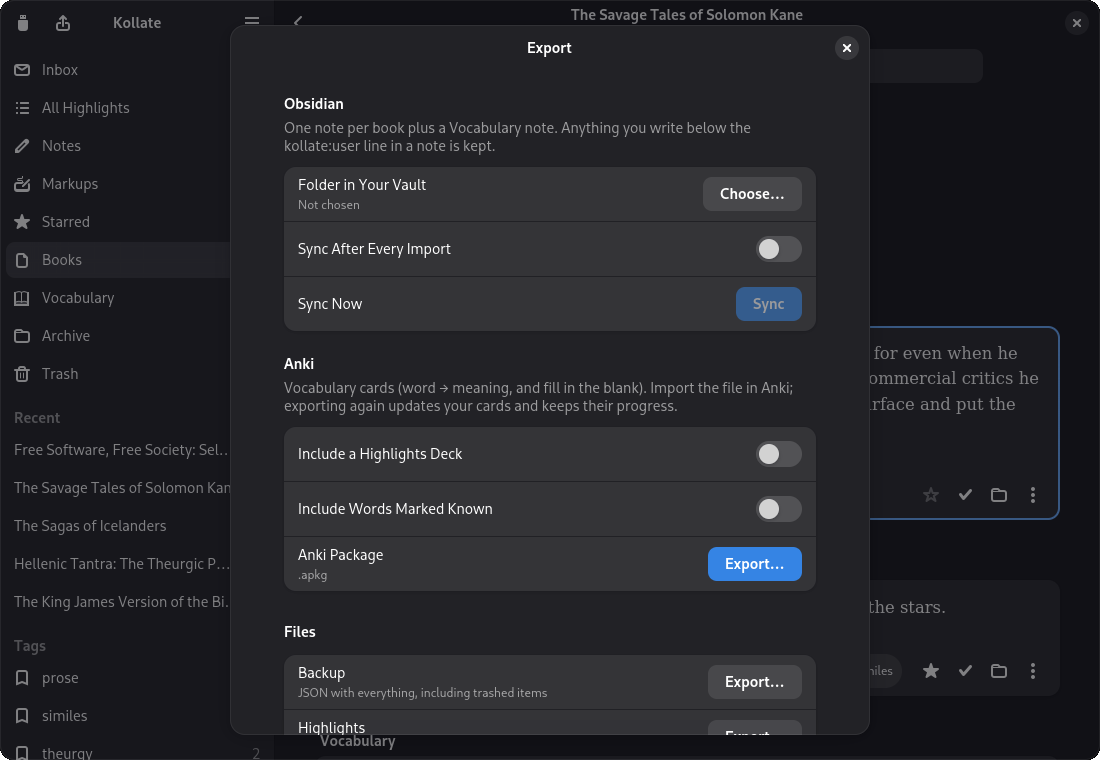
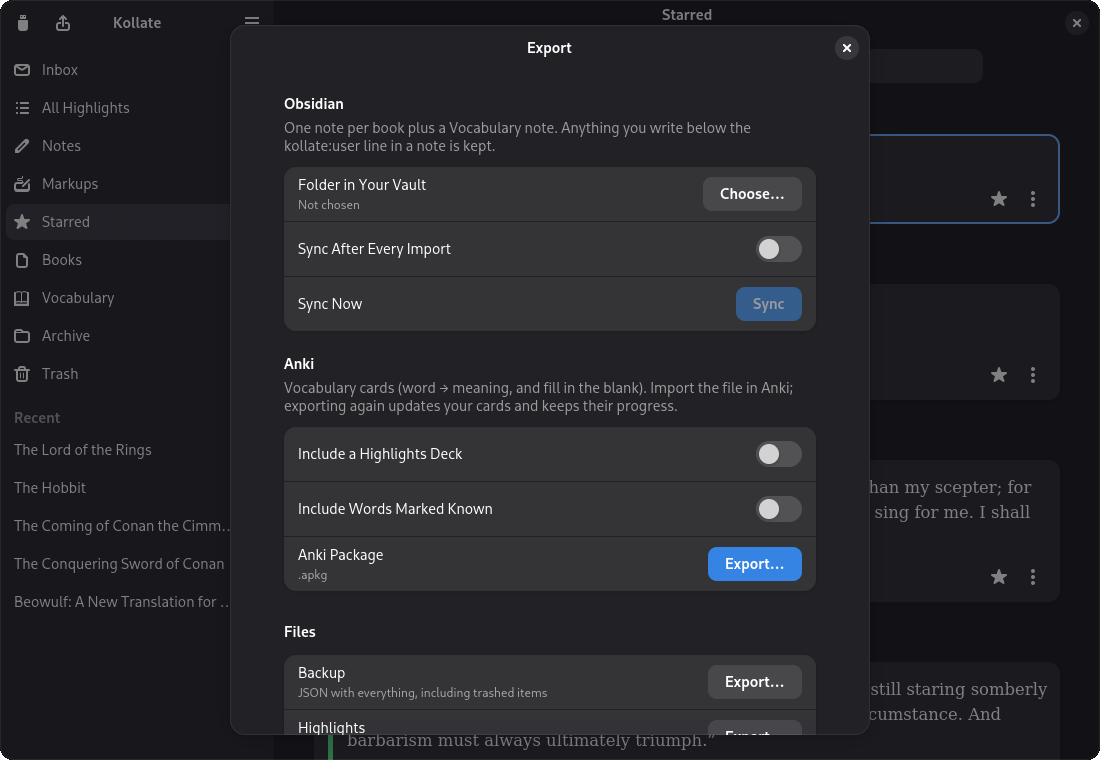
Refresh README screenshots with a curated library

diff --git a/README.md b/README.md
@@ -44,8 +44,8 @@ And export:
 | **Books:** your library by cover, most recent first | **A book:** cover, progress, highlights by chapter |
 | ![Vocabulary words with definitions and the sentence each was found in](docs/screenshots/vocabulary.png) | ![Word dialog for choosing the context sentence and editing the definition](docs/screenshots/word.png) |
 | **Vocabulary:** definition and the sentence from your book | **Words:** pick the context, edit the definition |
-| ![Dark mode, with a starred and tagged note](docs/screenshots/dark.png) | ![Export dialog with Obsidian, Anki and file options](docs/screenshots/export.png) |
-| **Dark mode**, tags and stars | **Export** to Obsidian, Anki and files |
+| ![Dark mode: starred highlights from several books, with a note](docs/screenshots/dark.png) | ![Export dialog with Obsidian, Anki and file options](docs/screenshots/export.png) |
+| **Dark mode:** your starred highlights across books | **Export** to Obsidian, Anki and files |
 
 ## Your Kobo stays untouched, and nothing goes online
 
